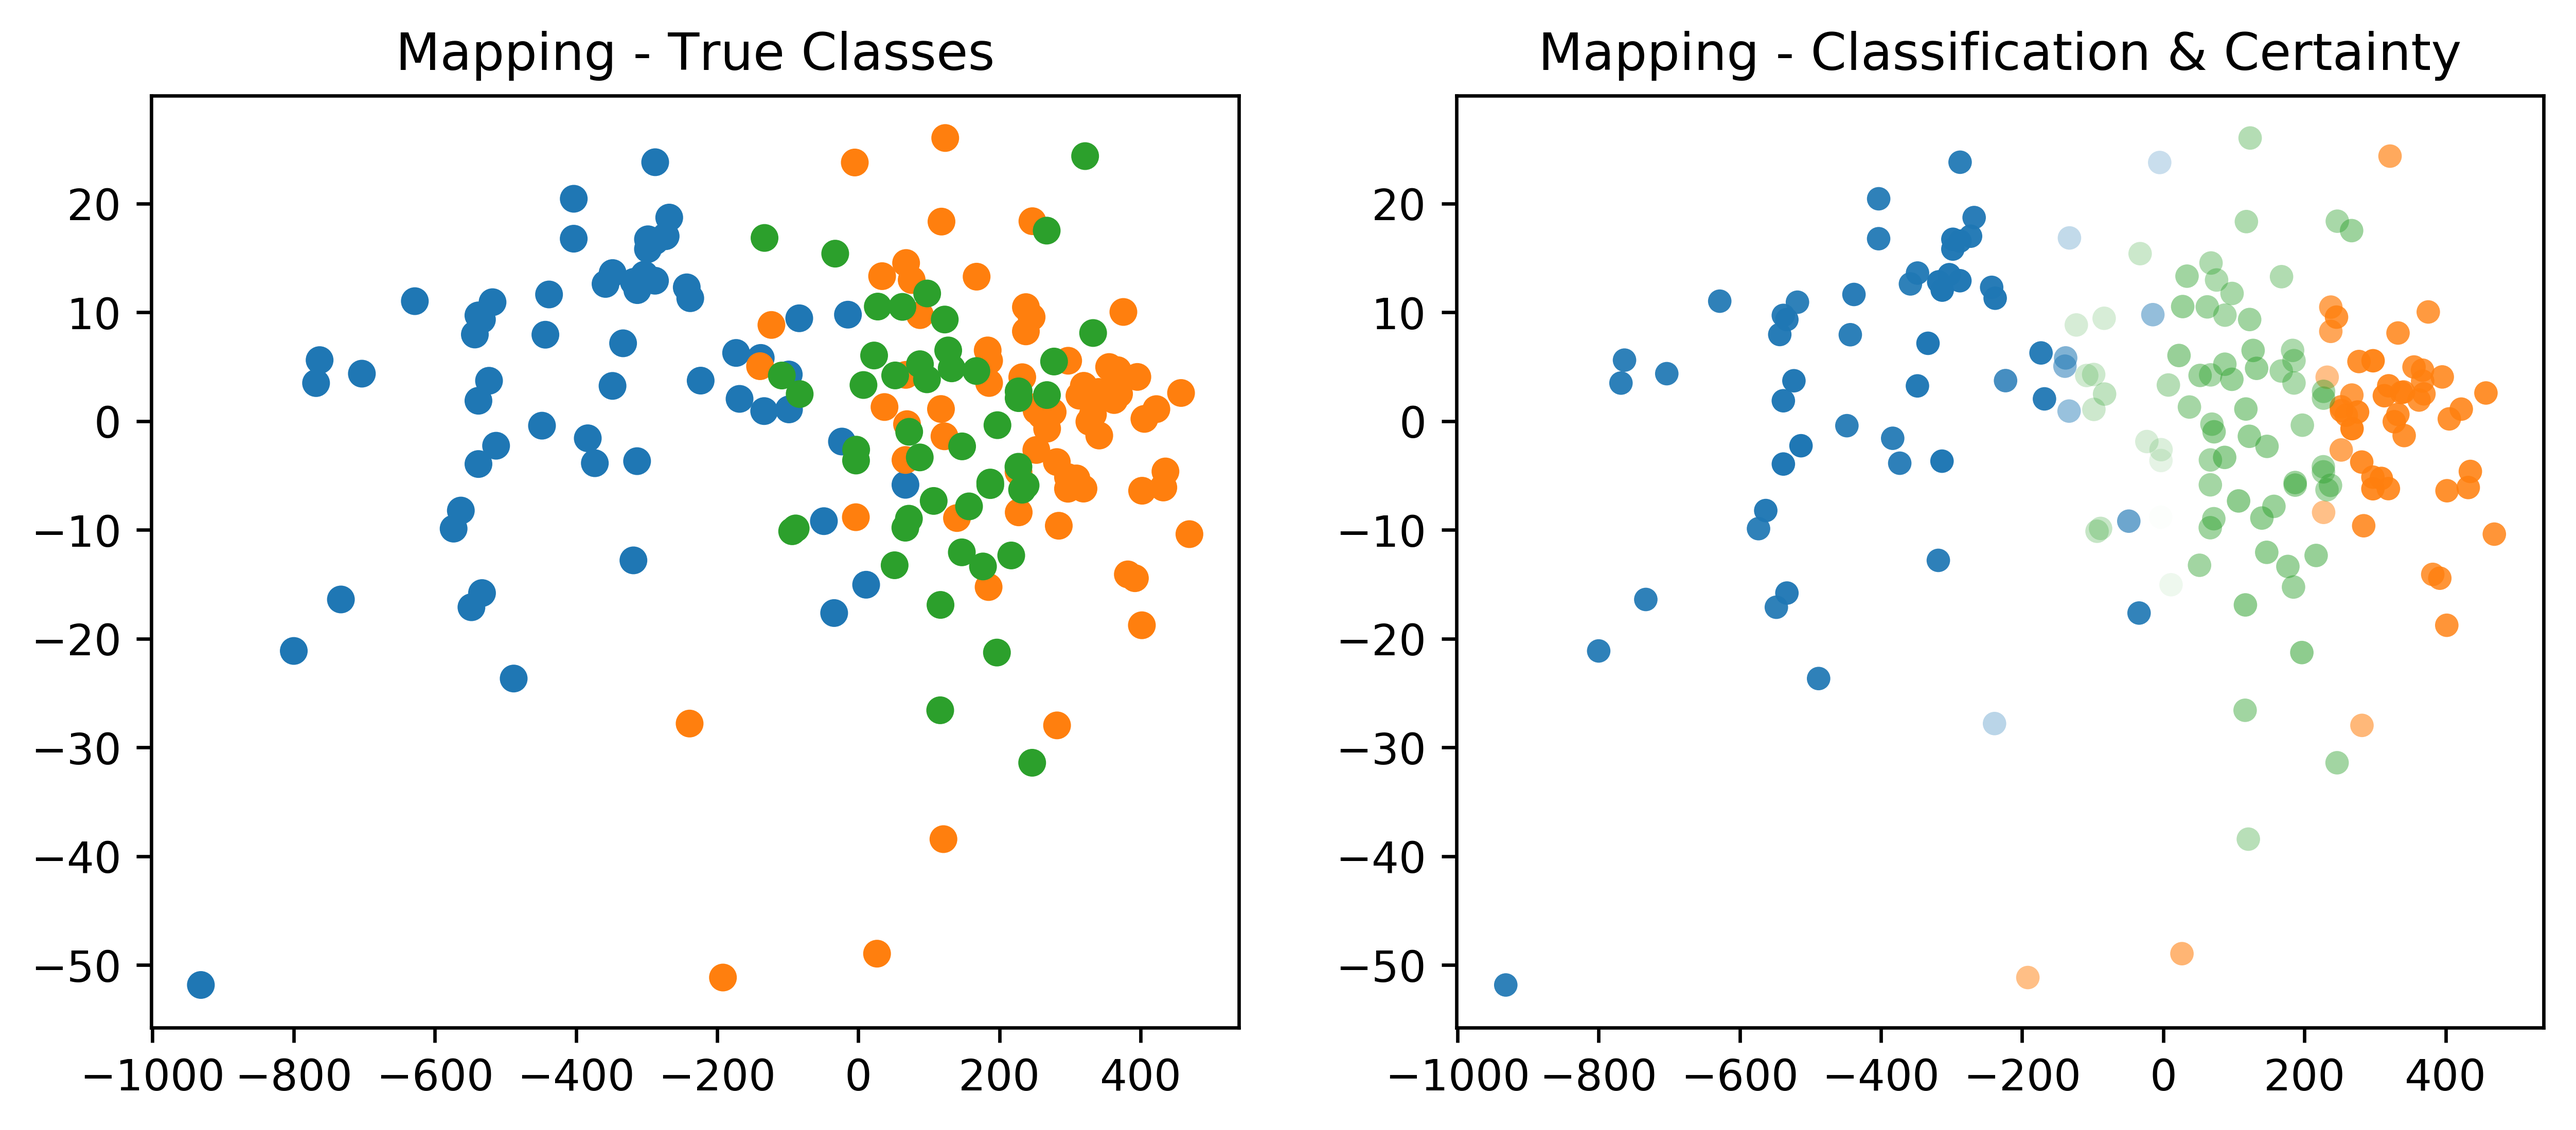
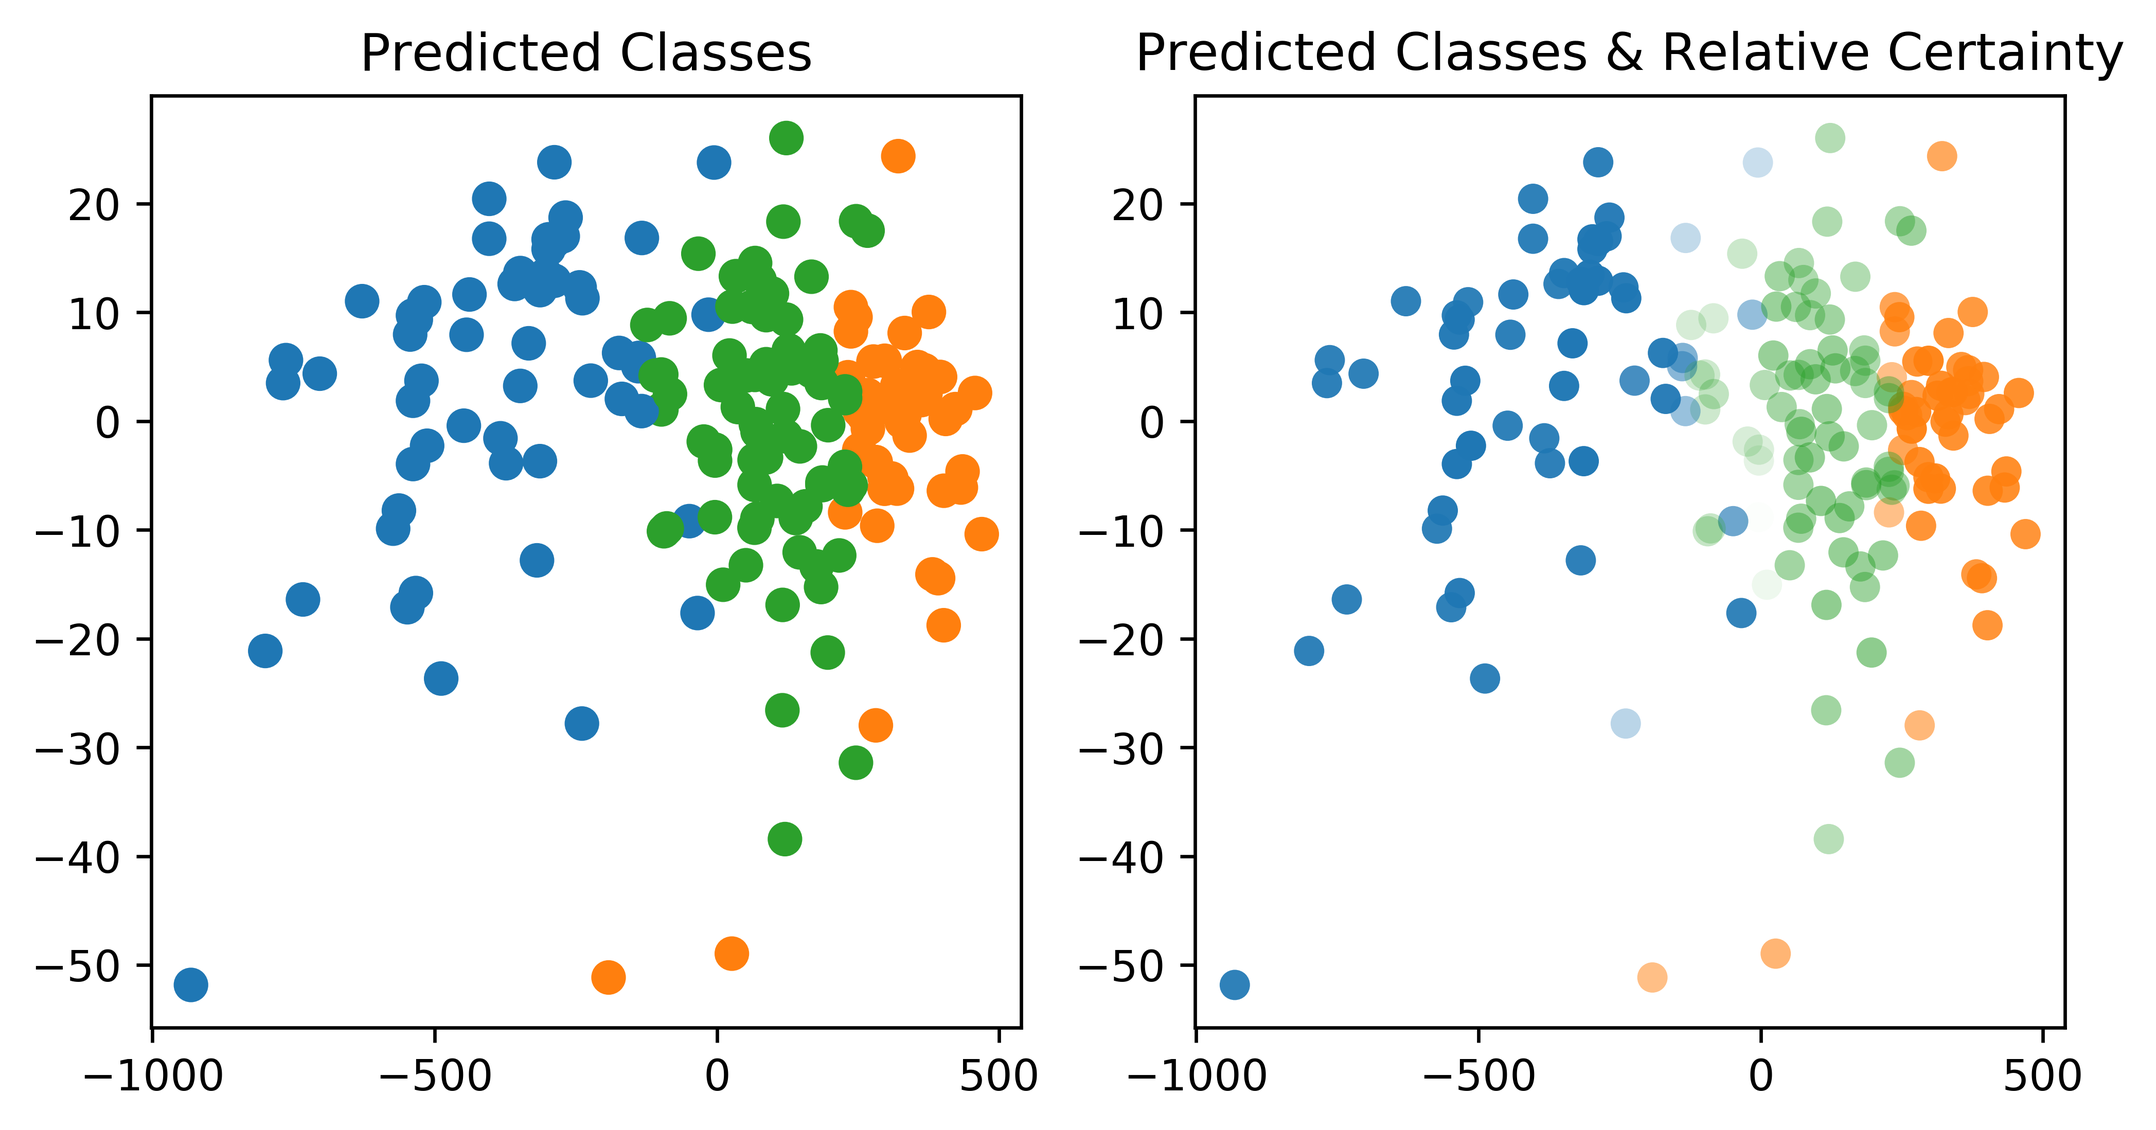
Minor Docs Updates, Docstring Updates

diff --git a/pyrolite/mineral/mineral.py b/pyrolite/mineral/mineral.py
@@ -326,7 +326,7 @@ class Mineral(object):
                 composition = parse_composition(composition)
 
             if composition is None:
-                logger.warn('Composition not set. Cannot calculate occupancy.')
+                logger.warn("Composition not set. Cannot calculate occupancy.")
 
             affinities = pd.DataFrame(
                 [site.affinities for site in self.template.structure]
@@ -407,7 +407,7 @@ class Mineral(object):
             self.template.site_occupancy = occupancy
             return occupancy
         else:
-            logger.warn('Template not yet set. Cannot calculate occupancy.')
+            logger.warn("Template not yet set. Cannot calculate occupancy.")
 
     def get_site_occupancy(self):
         """
@@ -509,7 +509,10 @@ def parse_composition(composition):
 @pf.register_series_method
 @pf.register_dataframe_method
 def recalc_cations(
-    df, ideal_cations=4, ideal_oxygens=6, Fe_species=["FeO", "Fe", "Fe2O3"],
+    df,
+    ideal_cations=4,
+    ideal_oxygens=6,
+    Fe_species=["FeO", "Fe", "Fe2O3"],
     oxygen_constrained=False,
 ):
     """
@@ -527,7 +530,8 @@ def recalc_cations(
     if not oxygen_constrained:
         if count_iron_species > 1:  # check that only one is defined
             oxygen_constrained = (
-                count_iron_species - pd.isnull(moles.loc[:, Fe_species]).all(axis=1).sum()
+                count_iron_species
+                - pd.isnull(moles.loc[:, Fe_species]).all(axis=1).sum()
             ) > 1
 
             if oxygen_constrained:
@@ -535,7 +539,7 @@ def recalc_cations(
             else:
                 logger.info("Single iron species defined. Calculating using cations.")
 
-        components = moles.columns
+    components = moles.columns
     as_oxides = len(list(pt.formula(components[0]).atoms)) > 1
     schema = []
     # if oxygen_constrained:  # need to specifically separate Fe2 and Fe3
@@ -563,12 +567,14 @@ def recalc_cations(
     ref = pd.DataFrame(data=schema)
     ref.columns = ref.columns.map(str)
     ref.index = components
+
     cation_masses = {c: pt.formula(c).mass for c in ref.columns}
     oxygen_index = [i for i in ref.columns if "O" in i][0]
     ref = ref.loc[:, [i for i in ref.columns if not i == oxygen_index] + [oxygen_index]]
-    moles_ref = ref.copy()
-
-    moles_ref.loc[:, :] = ref.values * moles.T.values
+    moles_ref = ref.copy(deep=True)
+    moles_ref.loc[:, :] = (
+        ref.values * moles.T.values
+    )  # this works for series, not for frame
 
     moles_O = moles_ref[oxygen_index].sum()
     moles_cations = (

diff --git a/docs/examples/plotting/manifold_uncertainty.py b/docs/examples/plotting/manifold_uncertainty.py
@@ -15,12 +15,22 @@ data, target = wine["data"], wine["target"]
 svc = SVC_pipeline(probability=True)
 gs = svc.fit(data, target)
 # %% Plot
-fig, ax = plt.subplots(1, 2, figsize=(10, 4))
-ax[0].set_title("Mapping - True Classes")
-ax[1].set_title("Mapping - Classification & Certainty")
-a, tfm, mapped = plot_mapping(data, gs.best_estimator_, ax=ax[1], s=30, init="pca")
-ax[0].scatter(*mapped.T, c=__DEFAULT_DISC_COLORMAP__(target), s=30)
-# %% Save Figure
-from pyrolite.util.plot import save_figure
+fig, ax = plt.subplots(1, 2, figsize=(8, 4))
 
+a, tfm, mapped = plot_mapping(
+    data, gs.best_estimator_, ax=ax[1], s=50, init="pca"
+)
+ax[0].scatter(*mapped.T, c=__DEFAULT_DISC_COLORMAP__(gs.predict(data)), s=50)
+# %% Save Figure
+ax[0].set_title("Predicted Classes")
+ax[1].set_title("With Relative Certainty")
+from pyrolite.util.plot import save_figure
 save_figure(fig, save_at="../../source/_static", name="manifold_uncertainty")
+
+# %% figure no axes
+ax[0].annotate('a)', xy=(0.05, 0.9),xycoords =ax[0].transAxes, fontsize=20)
+ax[1].annotate('b)', xy=(0.05, 0.9),xycoords =ax[1].transAxes, fontsize=20)
+for a in ax:
+    a.set_xticks([])
+    a.set_yticks([])
+save_figure(fig, save_at="../../source/_static", name="manifold_uncertainty_noticks")
